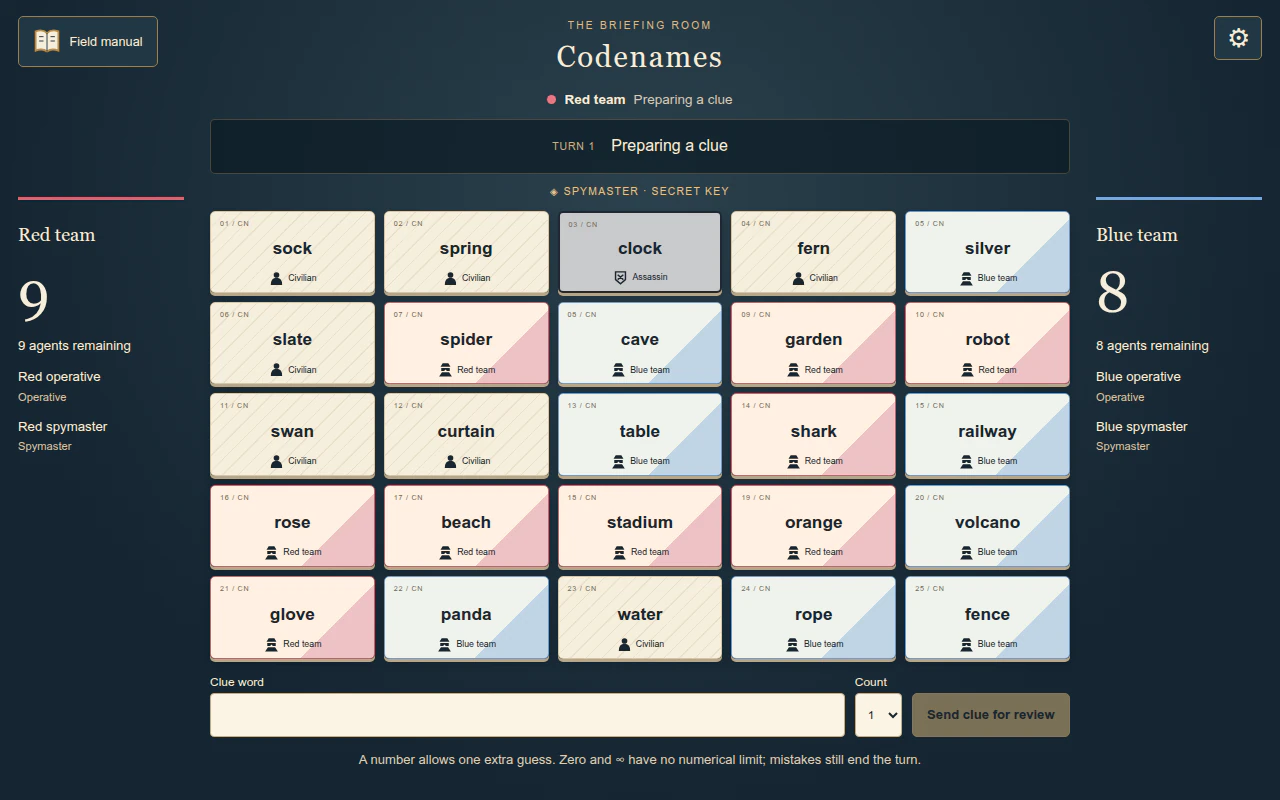
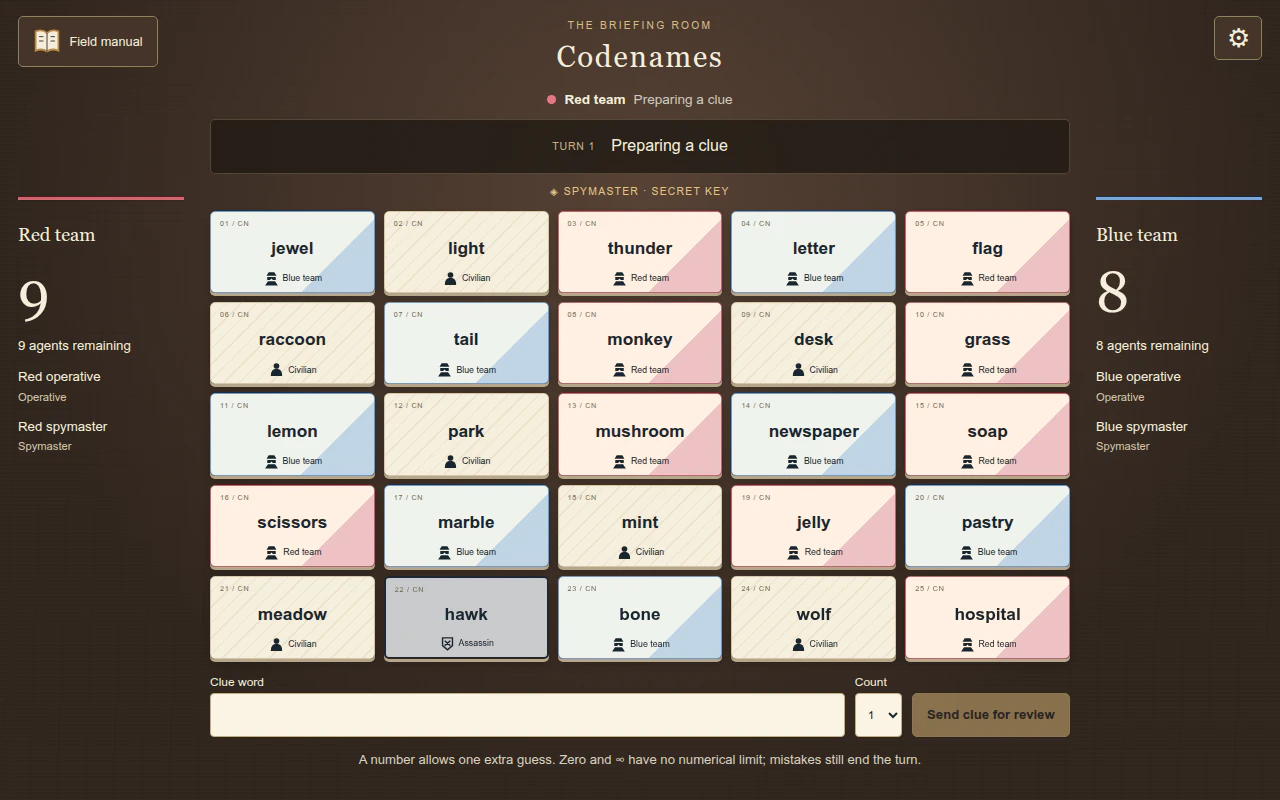
fix(codenames): warm the briefing table palette

diff --git a/games/codenames/src/Board.svelte b/games/codenames/src/Board.svelte
@@ -414,7 +414,7 @@
         fill="#f5eedc"
         stroke="#b88b47"
         stroke-width="2"
-      /><path d="M16 7v21M7 11h5m-5 5h5m8-5h5m-5 5h5" stroke="#152532" /></svg
+      /><path d="M16 7v21M7 11h5m-5 5h5m8-5h5m-5 5h5" stroke="#30251e" /></svg
     ><span>{m.cn_rules()}</span></button
   >
   <button
@@ -800,7 +800,7 @@
     display: none;
   }
   :global(body:has(.cn-table)) {
-    background: #152532;
+    background: #30251e;
     color: #f5eedc;
     margin: 0;
   }
@@ -817,9 +817,10 @@
       max(12px, env(safe-area-inset-bottom))
       max(18px, env(safe-area-inset-left));
     background:
-      radial-gradient(ellipse at 50% 25%, #2b414d, transparent 70%),
-      repeating-linear-gradient(0deg, #ffffff02 0 1px, transparent 1px 4px),
-      #152532;
+      radial-gradient(ellipse at 50% 25%, #574235, transparent 70%),
+      repeating-linear-gradient(0deg, #f5eedc04 0 1px, transparent 1px 4px),
+      repeating-linear-gradient(92deg, #08040112 0 1px, transparent 1px 28px),
+      #30251e;
     color: var(--paper);
     font-family: var(--font-body, Arial, sans-serif);
   }
@@ -853,7 +854,7 @@
     position: absolute;
     z-index: 2;
     top: max(16px, env(safe-area-inset-top));
-    background: #213744;
+    background: #453429;
     color: #f5eedc;
     border-color: #8c815f;
     display: flex;
@@ -1055,7 +1056,7 @@
     align-items: center;
     justify-content: center;
     gap: 1rem;
-    background: #0b1a23aa;
+    background: #211a14cc;
     border: 1px solid #94846766;
     border-radius: 5px;
     overflow-wrap: anywhere;
@@ -1122,7 +1123,7 @@
     background: #f1d397;
   }
   .corner:hover:enabled {
-    background: #304d5e;
+    background: #604a38;
   }
   .dossier strong {
     font-size: clamp(0.78rem, 1.35vw, 1.2rem);
@@ -1273,7 +1274,7 @@
     flex-wrap: wrap;
   }
   .confirmation:has(button) {
-    background: #0b1a23;
+    background: #211a14;
     border: 1px solid #a99065;
     padding: 10px;
     border-radius: 7px;
@@ -1347,7 +1348,7 @@
     padding: 24px;
   }
   dialog::backdrop {
-    background: #071018c9;
+    background: #17100bc9;
   }
   dialog header {
     display: flex;
@@ -1492,7 +1493,7 @@
       background: #f1d397;
     }
     .corner:hover:enabled {
-      background: #304d5e;
+      background: #604a38;
     }
     .dossier strong {
       font-size: 0.76rem;
@@ -1594,7 +1595,7 @@
       background: #f1d397;
     }
     .corner:hover:enabled {
-      background: #304d5e;
+      background: #604a38;
     }
     .dossier strong {
       font-size: 0.7rem;

diff --git a/docs/handoffs/codenames-review.md b/docs/handoffs/codenames-review.md
@@ -4,6 +4,38 @@ September 12, 2026. High review and fixes are complete in
 `/home/oscar/Projects/board-games-three-games/codenames`, branch `feature/codenames`.
 The owner used no nested agents, optional plugins or original-checkout edits.
 
+## Final warm-table presentation follow-up
+
+The coordinator's final visual review required a warm spy briefing table distinct
+from Azul's ink-blue table. This small follow-up changes only Codenames surface
+colors: dark leather/wood `#30251e`, a warm `#574235` light pool and subtle CSS grain,
+with matching brown corner buttons, clue strip, confirmation tray and backdrop.
+Ivory dossiers, crimson/cobalt identities, layout, rules and interaction logic are
+unchanged. High review opened the final Chromium operative desktop, 390px phone
+and WebKit spymaster desktop screenshots and confirmed the visual direction.
+
+Contrast calculations using WCAG relative luminance: paper/base table **12.88:1**,
+paper/lightest conservative grain bound **7.74:1**, muted hint/lightest bound
+**5.73:1**, paper/corner **10.22:1**, paper/hover **7.16:1**, paper/confirmation
+**14.84:1**, focus/lightest bound **5.85:1**. Dossier ink/paper remains **13.34:1**.
+The lightest bound `#5a4538` conservatively includes the pale grain overlay.
+
+Validation: production build passed; changed-source Prettier and `git diff --check`
+passed. Existing four-client round/reconnect/rematch and responsive screenshot
+journeys passed **4/4 in Chromium and WebKit** (32.8s), using:
+
+`PLAYWRIGHT_BROWSERS_PATH=/tmp/board-games-three-games-browsers WEBKIT_EXECUTABLE=/tmp/board-games-three-games-browsers/webkit TEST_PORT=3112 bun run test:e2e tests/e2e/codenames.spec.ts --grep 'four private|responsive practice' --output=/tmp/codenames-warm-final`
+
+Selected desktop/phone/result/reservation PNGs are refreshed in the evidence
+folder, with additional 1440px desktop and 390px WebKit images. The evidence index
+identifies remaining prior-palette functional captures. No logic/unit tests were
+added or rerun for this CSS-only follow-up. Earlier manual-device limits remain.
+
+Coordinator already integrated `ded18f8` and `8c25ee1` as `76fffbc` and `41d62cc`;
+apply only this new palette/evidence commit. The owner handoff is updated here;
+coordinator will integrate it by cherry-pick, avoiding an overwrite of the tracked
+integration handoff. `bun.lock` remains uncommitted.
+
 ## Integration commits
 
 Apply the existing Medium commits `23aa459` (game) and `ccb1c57` (wiring/messages),

diff --git a/docs/evidence/codenames/README.md b/docs/evidence/codenames/README.md
@@ -4,6 +4,14 @@ Captured September 12, 2026 from the Codenames owner branch, including High fixe
 in `ded18f8`. These are disposable test rooms and explicitly local training cases.
 No publisher artwork is used.
 
+The final palette follow-up refreshes `operative-desktop.webp`,
+`spymaster-desktop.webp`, `assassin-result.webp`, `waiting-webkit.webp` and the
+320/360/390 phone images to the warm leather/wood surface. Added
+`warm-desktop-1440.webp` and `phone-390-webkit.webp` show the final table in both
+browser engines. Other images and the two original recordings retain the prior
+ink-blue surface as functional review evidence; their game behavior is unchanged.
+Warm-palette raw artifacts are in `/tmp/codenames-warm-final/`.
+
 - `operative-desktop.webp`, `spymaster-desktop.webp`: independent multiplayer roles.
 - `waiting-webkit.webp`: disconnected required spymaster and actual seat reservation.
 - `eight-seat-setup.webp`, `race-confirmation.webp`, `race-settled.webp`: eight independent
